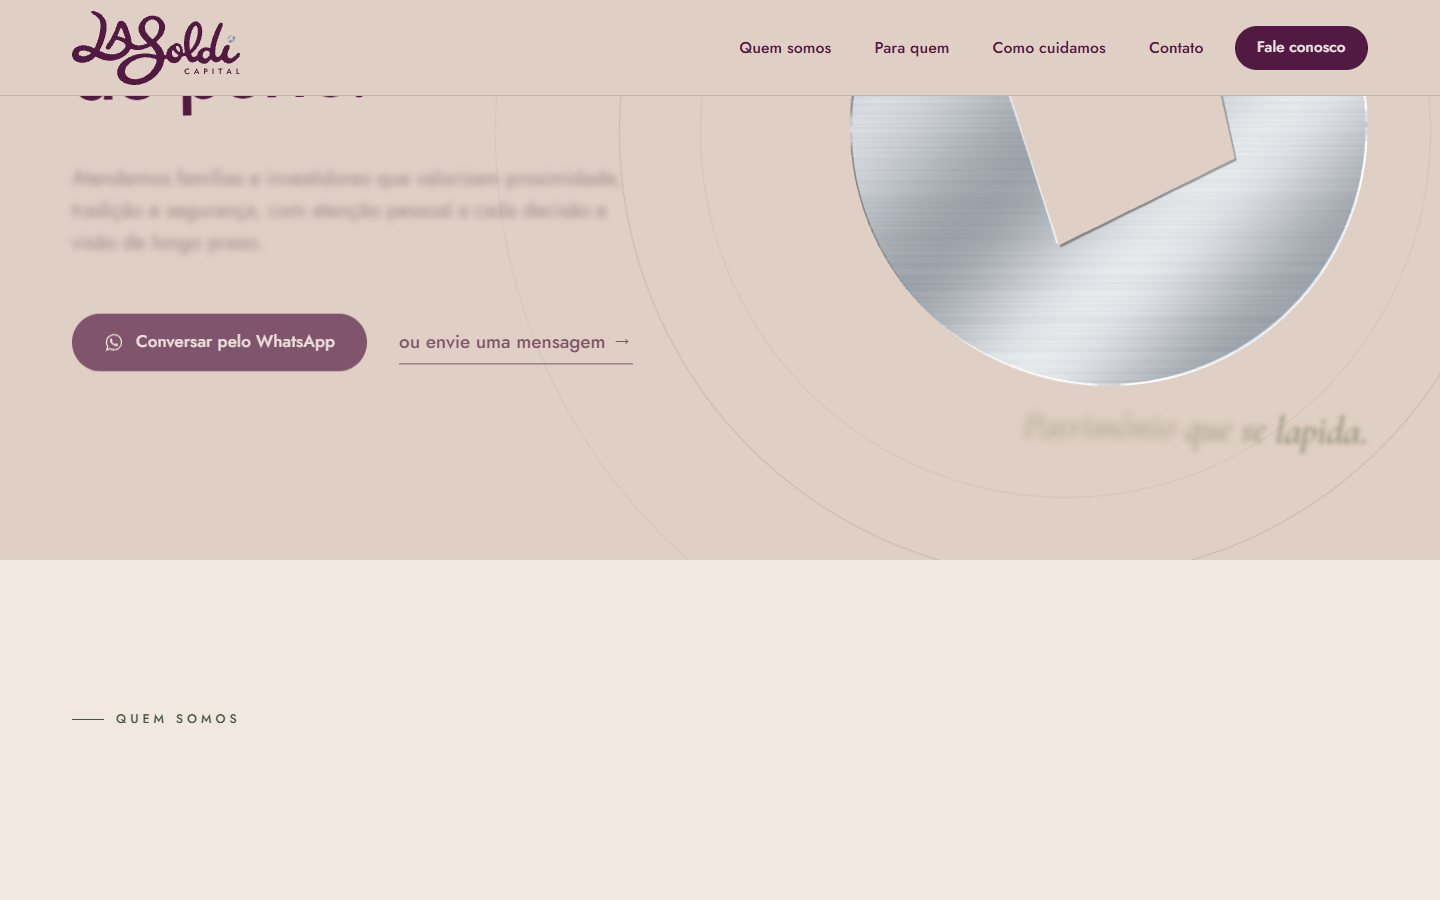
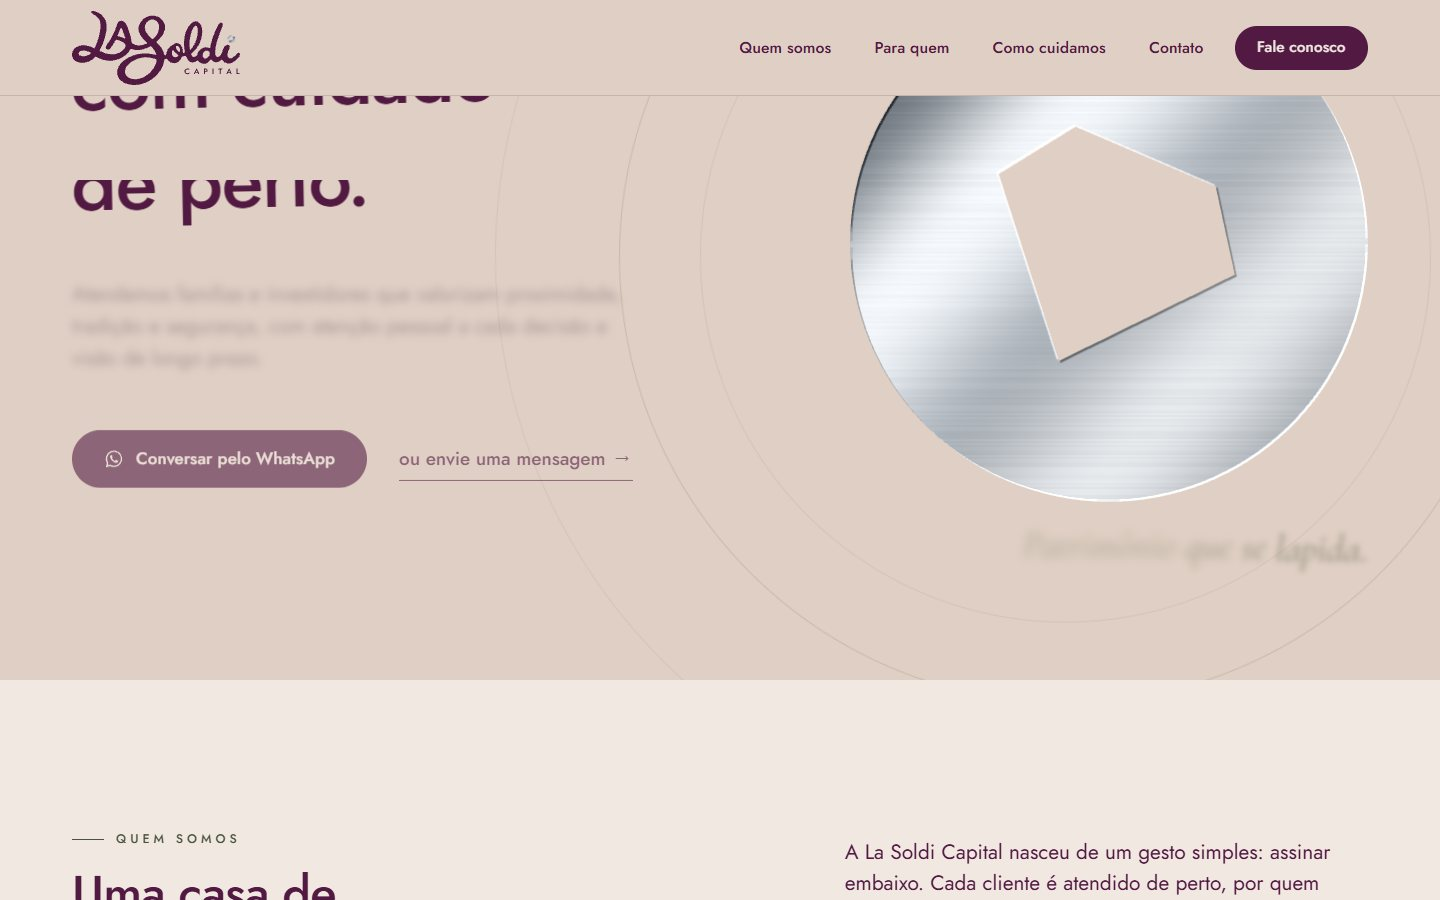
Manifesto reversível a partir de 55% e ajuste de contraste nas palavras em itálico

diff --git a/assets/js/reveal.js b/assets/js/reveal.js
@@ -58,13 +58,11 @@ export function initReveals() {
   if (manifesto) {
     const { words } = SplitText.create(manifesto, { type: 'words', aria: 'none' });
     gsap.set(manifesto, { visibility: 'visible' });
-    gsap.fromTo(words, { opacity: 0.22 }, {
+    // palavras em itálico (verde) partem de um pouco mais de tinta para manter contraste mínimo
+    gsap.fromTo(words, { opacity: (i, el) => (el.closest('em') ? 0.8 : 0.55) }, {
       opacity: 1, ease: 'none', stagger: 0.12,
-      scrollTrigger: {
-        trigger: manifesto, start: 'top 78%', end: 'bottom 52%', scrub: 0.6,
-        // depois de lido, o texto fica com tinta cheia (não volta a apagar ao subir)
-        onLeave: (self) => { self.animation.progress(1); self.kill(false, true); },
-      },
+      // reversível: ao subir a página, as palavras voltam a apagar
+      scrollTrigger: { trigger: manifesto, start: 'top 78%', end: 'bottom 52%', scrub: 0.6 },
     });
   }
 

diff --git a/assets/css/interactions.css b/assets/css/interactions.css
@@ -15,7 +15,7 @@
 }
 .manifesto__text em {
   font-family: var(--font-serif); font-style: italic; font-weight: 500;
-  font-size: 1.12em; letter-spacing: 0; color: var(--ls-musgo);
+  font-size: 1.12em; letter-spacing: 0; color: var(--label);
 }
 
 /* ======================= PARA QUEM CUIDAMOS ======================= */

diff --git a/assets/js/hero.js b/assets/js/hero.js
@@ -42,8 +42,8 @@ export function initHero({ isMobile }) {
       scrollTrigger: {
         trigger: hero,
         start: 'top top',
-        end: isMobile ? 'bottom top' : 'bottom 20%',
-        scrub: 0.6,
+        end: isMobile ? '70% top' : '45% top',
+        scrub: 0.35,
       },
     });
     exitTl

diff --git a/docs/DESIGN.md b/docs/DESIGN.md
@@ -136,9 +136,12 @@ Formulário com envio progressivo: funciona sem JS (POST normal + página de ret
   desfoque; botões sobem; tagline surge palavra a palavra do desfoque. Moeda entra com a **faceta** (1ª aparição do
   movimento-assinatura).
 - **Saída (scrub, reversível):** linhas do H1 somem para cima pela máscara, o resto se dissolve para cima com desfoque.
+  Completa em ~45% da altura do topo no desktop (~400 px de rolagem) e 70% no celular.
 - **Movimento contínuo:** moeda flutua e inclina (9 s, ±10 px / 1,6°); brilho da prata a cada ~9 s; duas moedinhas
   orbitam os anéis (64 s e 92 s, sentidos opostos; só desktop). Tudo desligado com movimento reduzido.
-- **Hover do CTA:** preenchimento prata nasce do ponto de entrada do cursor, texto rola, botão magnético.
+- **Hover do CTA:** preenchimento prata (degradê oficial) nasce do ponto de entrada do cursor, texto vira vinho e
+  rola, botão magnético. *Testadas alternativas mais discretas (vinho profundo, linho); mantido o prata até o
+  retorno do cliente.*
 - **Tecnologia:** GSAP + WebGL (fallback SVG).
 - **Mobile:** moeda menor, acima do H1, cortada à direita; CTA ocupa a largura; shader com resolução 0,75× e sem ponteiro.
 
@@ -152,8 +155,8 @@ Formulário com envio progressivo: funciona sem JS (POST normal + página de ret
 ### M2b · Manifesto — "Nosso jeito" *(segunda rodada)*
 - **Conteúdo:** parágrafo grande de tom de voz, com 3 palavras em Cormorant Italic musgo (paciência, atenção, permaneça).
 - **Composição:** fundo areia, texto ameixa em Jost 500 de até 3,5rem, coluna de ~30ch.
-- **Animação:** as palavras começam a 22% de opacidade e ganham tinta com a rolagem (scrub). Depois de lido, fica
-  cheio e não volta a apagar.
+- **Animação:** as palavras começam a 55% de opacidade (80% nas palavras em itálico, para manter o contraste) e ganham tinta com a rolagem (scrub), nos dois sentidos:
+  ao subir a página, voltam a apagar.
 - **Mobile:** mesmo efeito, texto menor.
 
 ### M2c · Para quem cuidamos — lista editorial *(segunda rodada)*

diff --git a/docs/RELATORIO-CONVERSAO.md b/docs/RELATORIO-CONVERSAO.md
@@ -30,8 +30,8 @@ Ferramenta: Playwright + Chromium headless + axe-core (WCAG 2.0/2.1 A e AA), ser
 Correções feitas durante o QA:
 - Contraste: rótulos em oliva escurecido (`#47533c`); tagline em musgo; textos sobre musgo em linho sólido.
 - `aria-label` indevido gerado pelo SplitText no `<p>` da citação.
-- Segunda rodada: conflito entre o botão magnético e a entrada do topo (botão ficava 20 px abaixo); manifesto voltava a
-  apagar ao subir (agora fica com tinta cheia depois de lido); órbitas passando sobre o texto no celular (só desktop).
+- Segunda rodada: conflito entre o botão magnético e a entrada do topo (botão ficava 20 px abaixo); manifesto agora é
+  reversível por escolha de direção (as palavras voltam a apagar ao subir); órbitas passando sobre o texto no celular (só desktop).
 - Novo teste: depois de rolar até o fim e voltar ao topo, todos os textos do hero se recompõem (0 elementos presos).
 - Botão "Fale conosco" vazando no cabeçalho mobile (especificidade do CSS).
 - Traçado do fio do método com `non-scaling-stroke` quebrando o desenho.
@@ -42,6 +42,10 @@ Formulário:
 - Back (`api/contato.php`): validação ✅, honeypot ✅, tempo mínimo ✅, limite por IP ✅, sem `config.php` → 503 amigável ✅,
   SMTP fora do ar → 502 amigável ✅, sem JS → redirect 303 ✅.
 - **Não testado:** envio real de e-mail (faltam as credenciais SMTP do cliente).
+
+**Manifesto reversível sem perder contraste:** as palavras partem de 55% de opacidade (80% nas em itálico, que
+ficaram em oliva escurecido `#47533c`). Assim o texto apagado ainda passa no contraste para texto grande, e o axe
+volta a 0 violações mesmo com a seção apagada.
 
 ## Não verificado (exige ambiente real)
 - Safari iOS em aparelho físico (testado só com emulação de iPhone no Chromium).

diff --git a/README.md b/README.md
@@ -83,7 +83,7 @@ o brilho da prata passa a cada poucos segundos e duas pequenas moedas orbitam os
 ![Saída do topo: as linhas do título somem pela máscara e o texto se dissolve com desfoque](.github/preview-hero-saida.jpg)
 
 **Hovers de estúdio.** O botão principal ganha um *banho de prata*: o metal nasce do ponto exato em que o cursor
-entrou, o texto rola para cima e o botão é magnético, acompanhando o mouse. Os links do menu rolam o texto, as setas
+entrou, o texto vira vinho e rola para cima, e o botão é magnético, acompanhando o mouse. Os links do menu rolam o texto, as setas
 saem por um lado e entram pelo outro, e os botões sobre musgo invertem para ameixa. No celular, nada depende de hover.
 
 <p align="center">
@@ -91,7 +91,7 @@ saem por um lado e entram pelo outro, e os botões sobre musgo invertem para ame
 </p>
 
 **Manifesto que se lê com a rolagem.** Um parágrafo grande sobre o jeito de trabalhar da casa, em que as palavras
-ganham tinta conforme a leitura avança. Depois de lido, o texto fica cheio: não volta a apagar ao subir.
+saem de 55% e ganham tinta cheia conforme a leitura avança, e voltam a clarear quando a página sobe.
 
 ![Manifesto: "Cuidar de patrimônio é um trabalho de paciência..."](.github/preview-manifesto.jpg)
 
